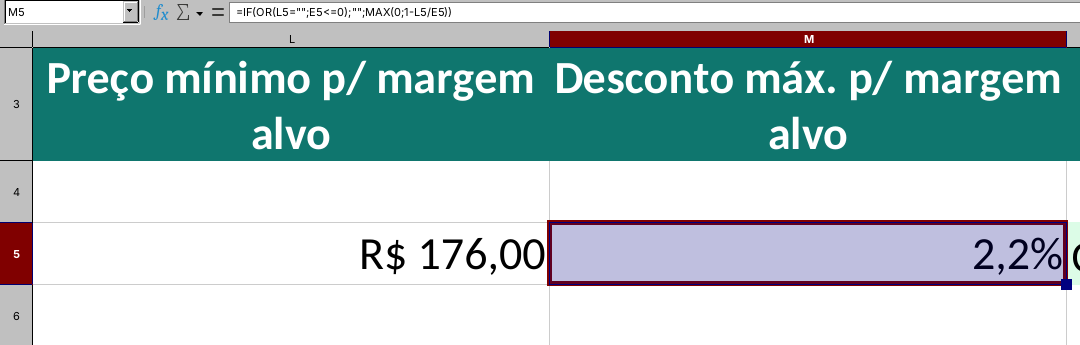
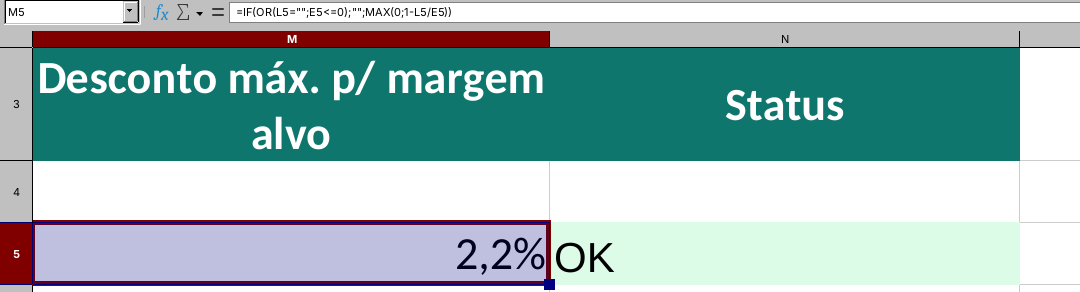
fix(shorts-v3.7): coluna da célula inteira com folga; respiro antes da legenda
Ensaio por PR 43655633230 (júri real): nota geral 9,5 — gancho 9,5,
prova 9,5, oferta 10, marca 9,5, legibilidade 8,8; objetivas sem falha
(R$ 39,00 lido no vídeo: 166 px). Júri: "o recorte corta o 2,2% na borda
direita" e "espaço entre legenda e conteúdo apertado".

- Captura: a coluna da célula termina a >= 80 px da borda; se não, a tela
  começa na própria coluna (falha explícita se nem assim couber). Tela vai
  até o fim da linha 5 (a linha 6 vazia só ocupava altura). Sem arquivos
  de continuação.
- Quadros: conteúdo até 1150 (legenda em 1330); cartão do close-up mais
  compacto.
Suíte 1974/1974.

Claude-Session: https://claude.ai/code/session_013qEayJV2BctKApuM3NnNgu

diff --git a/scripts/shorts-v3/capturar_planilha.py b/scripts/shorts-v3/capturar_planilha.py
@@ -6,7 +6,7 @@ aberto numa tela virtual (Xvfb), a planilha ORIGINAL (sha256 conferido) recebe a
 LibreOffice (UNO), é recalculada, a célula é selecionada e a tela é fotografada (ImageMagick import). Duas capturas
 por célula, sem retoque de pixels — só recorte:
   tela-<nome>.png    contexto: barra de fórmulas com a fórmula real, letras das colunas, números das linhas, abas,
-                     barra de status, zoom 300%, 1080 px; + tela-<nome>-resto.png;
+                     barra de status, zoom 300%, 1080 px, até a linha 5;
   celula-<nome>.png  close-up: a mesma célula selecionada a 400% (faixa das letras das colunas + linha 5), recortada
                      em torno do valor para que ele fique legível no celular.
 Uso: Xvfb (tela 1400x1800) + soffice escutando em 2002, com LANG=pt_BR.UTF-8 (formato R$ e vírgula) (ver tests/media); python3 capturar_planilha.py ORIGINAL.xlsx PROVENIENCIA.json SAIDA/
@@ -19,11 +19,10 @@ from PIL import Image
 LARGURA_JANELA, ALTURA_CONTEXTO, ALTURA_PERTO = 1400, 1720, 760
 SEL = (128, 0, 0)  # cor do cabeçalho da coluna/linha selecionada no Calc (tema padrão)
 # contexto: da barra de fórmulas (nome da célula + fórmula) até a barra de status, sem menus/ferramentas nem painel lateral
-# v3.6 (júri real 9,1, ensaio 43646726494: "terço inferior vazio" e "cabeçalhos pequenos"): tela a 300%, 1080 de largura
-# (sangra a largura do Short) e alta o bastante para descer até a borda de baixo; dividida em DUAS imagens reais:
-# tela-<nome>.png (barra de fórmulas até a linha 6 — a prova, medida por NCC) e tela-<nome>-resto.png (só a grade
-# das linhas seguintes, sem texto — continuação real que fica sob a interface do Shorts).
+# v3.7: tela a 300%, 1080 de largura (sangra a largura do Short), da barra de fórmulas ao fim da linha 5; a coluna da
+# célula termina a pelo menos FOLGA_DIREITA px da borda (júri real: "corta o 2,2% na borda direita").
 CORTE_TELA = (0, 80, 1080, ALTURA_CONTEXTO); ZOOM_TELA = 300; ROTULO_LINHAS = 33; RODAPE_CALC = 62
+FOLGA_DIREITA = 80  # a coluna da célula termina a >= 80 px da borda: nada cortado colado ao valor
 
 def _p(n, v):
     p = PropertyValue(); p.Name = n; p.Value = v; return p
@@ -68,13 +67,18 @@ def main(original, prov_path, saida):
             ctrl.select(sh.getCellRangeByName("A1")); time.sleep(1); ctrl.select(cel)  # barra de status atualizada para ESTA célula
             ctrl.setFirstVisibleColumn(max(0, col - 1)); ctrl.setFirstVisibleRow(2)  # a seleção rola a tela: fixa de novo; time.sleep(2.5)
             tmp = os.path.join(saida, f".raw-{nome}.png"); subprocess.run(["import", "-window", "root", tmp], check=True)
-            tela = Image.open(tmp).convert("RGB"); _, y1t = faixa_selecionada(tela, "y", 10, 100, ALTURA_CONTEXTO - 80)  # linha 5
-            corte = y1t + (y1t - faixa_selecionada(tela, "y", 10, 100, ALTURA_CONTEXTO - 80)[0])  # + altura de 1 linha (linha 6)
+            tela = Image.open(tmp).convert("RGB")
+            # v3.7 (júri real: "o recorte corta o 2,2% na borda direita"): a coluna da célula tem de caber inteira nos
+            # 1080 px; se não couber começando uma coluna antes, a tela começa na própria coluna da célula
+            if faixa_selecionada(tela, "x", 118, 30, LARGURA_JANELA - 60)[1] > CORTE_TELA[2] - FOLGA_DIREITA:
+                ctrl.setFirstVisibleColumn(col); ctrl.setFirstVisibleRow(2); time.sleep(2.5)
+                subprocess.run(["import", "-window", "root", tmp], check=True); tela = Image.open(tmp).convert("RGB")
+                if faixa_selecionada(tela, "x", 118, 30, LARGURA_JANELA - 60)[1] > CORTE_TELA[2] - FOLGA_DIREITA: raise SystemExit("coluna_nao_cabe:" + nome)
+            _, y1t = faixa_selecionada(tela, "y", 10, 100, ALTURA_CONTEXTO - 80)  # fim da linha 5
+            corte = y1t + 8  # v3.7: termina logo após a linha 5 (a linha 6 vazia só ocupava altura)
             tela = tela.crop(CORTE_TELA); h = corte - CORTE_TELA[1]
             tela.crop((0, 0, tela.width, h)).save(os.path.join(saida, f"tela-{nome}.png"))
-            # continuação: só a GRADE das linhas seguintes (sem números de linha, abas nem barra de status) — nada de texto
-            # abaixo de y=1470, onde fica a interface do Shorts
-            tela.crop((ROTULO_LINHAS, h, tela.width, tela.height - RODAPE_CALC)).save(os.path.join(saida, f"tela-{nome}-resto.png"))
+
             win.setPosSize(0, 0, LARGURA_JANELA, ALTURA_PERTO, 15); ctrl.ZoomValue = 400
             ctrl.setFirstVisibleColumn(col); ctrl.setFirstVisibleRow(linha - 1); time.sleep(2.5)
             subprocess.run(["import", "-window", "root", tmp], check=True); im = Image.open(tmp).convert("RGB")

diff --git a/scripts/shorts-v3/quadros.py b/scripts/shorts-v3/quadros.py
@@ -51,7 +51,7 @@ N = spec["numeros"]; O = spec["oferta"]; brl = lambda v: "R$ " + f"{v:,}".replac
 # v3.1 (júri real 8,2 — run 43538539233): conteúdo ocupa toda a área útil acima da faixa da legenda falada, planilha
 # REAL em capturas grandes (LibreOffice pt-BR, 400 dpi), sem rótulos "ilustrativo", capa grande, textos longe da borda.
 # Faixa y 1280–1460 = legenda falada (render.mjs, \pos(470,1380)); abaixo de 1470 = interface do Shorts.
-CAP = ROOT / "assets/shorts-v3/lcx"; CB = 1240  # v3.7 (júri: "subir as legendas"): legenda em y≈1330, conteúdo até 1240
+CAP = ROOT / "assets/shorts-v3/lcx"; CB = 1150  # v3.7 (júri: legenda em y≈1330 com respiro): conteúdo até 1150
 def captura(d, nome, x, y, largura):
     s = Image.open(CAP / nome).convert("RGB"); s = s.resize((largura, round(s.height * largura / s.width)), Image.LANCZOS)
     d.rounded_rectangle((x - 8, y - 8, x + largura + 8, y + s.height + 8), 14, fill=(255, 255, 255)); d.im.paste(s, (x, y))
@@ -65,10 +65,10 @@ def celula(d, nome, y, largura=SAFE_R - 64):
     c = PROV["celulas"][nome]; x = (64 + SAFE_R - largura) // 2
     s_ = Image.open(CAP / Path(c["arquivo"]).name); alt = round(s_.height * largura / s_.width)
     # faixa escura de largura total (só bordas horizontais): a borda vertical cruzando a grade parecia textura de letra
-    d.rectangle((0, y, W, y + alt + 104), fill=BG); d.rectangle((0, y, W, y + 5), fill=YEL); d.rectangle((0, y + alt + 99, W, y + alt + 104), fill=YEL)
-    fim = captura(d, Path(c["arquivo"]).name, x, y + 24, largura)
-    d.text((x, fim + 6), f"Aba {c['aba']} · célula {c['celula']} (ampliada)", font(38), MUTED)
-    return fim + 72
+    d.rectangle((0, y, W, y + alt + 84), fill=BG); d.rectangle((0, y, W, y + 5), fill=YEL); d.rectangle((0, y + alt + 79, W, y + alt + 84), fill=YEL)
+    fim = captura(d, Path(c["arquivo"]).name, x, y + 18, largura)
+    d.text((x, fim + 2), f"Aba {c['aba']} · célula {c['celula']} (ampliada)", font(38), MUTED)
+    return fim + 60
 def tela(d, nome, y):
     """v3.7: TELA REAL do Calc a 300% em LARGURA TOTAL (0–1080), da barra de fórmulas à linha 6. (A v3.6 colava a grade
     vazia até a borda: júri real 8,5 — "grade cortada e vazia"; retirada.) Seta do cabeçalho da coluna ao close-up."""
